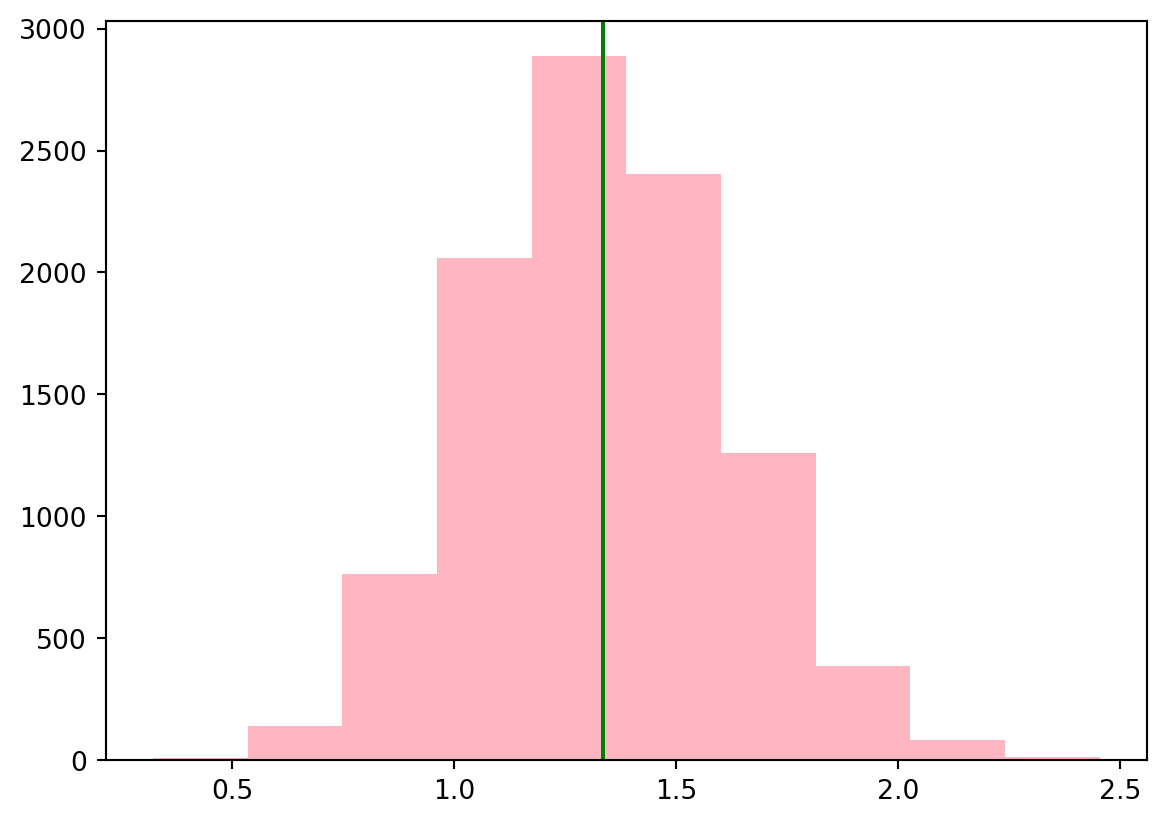
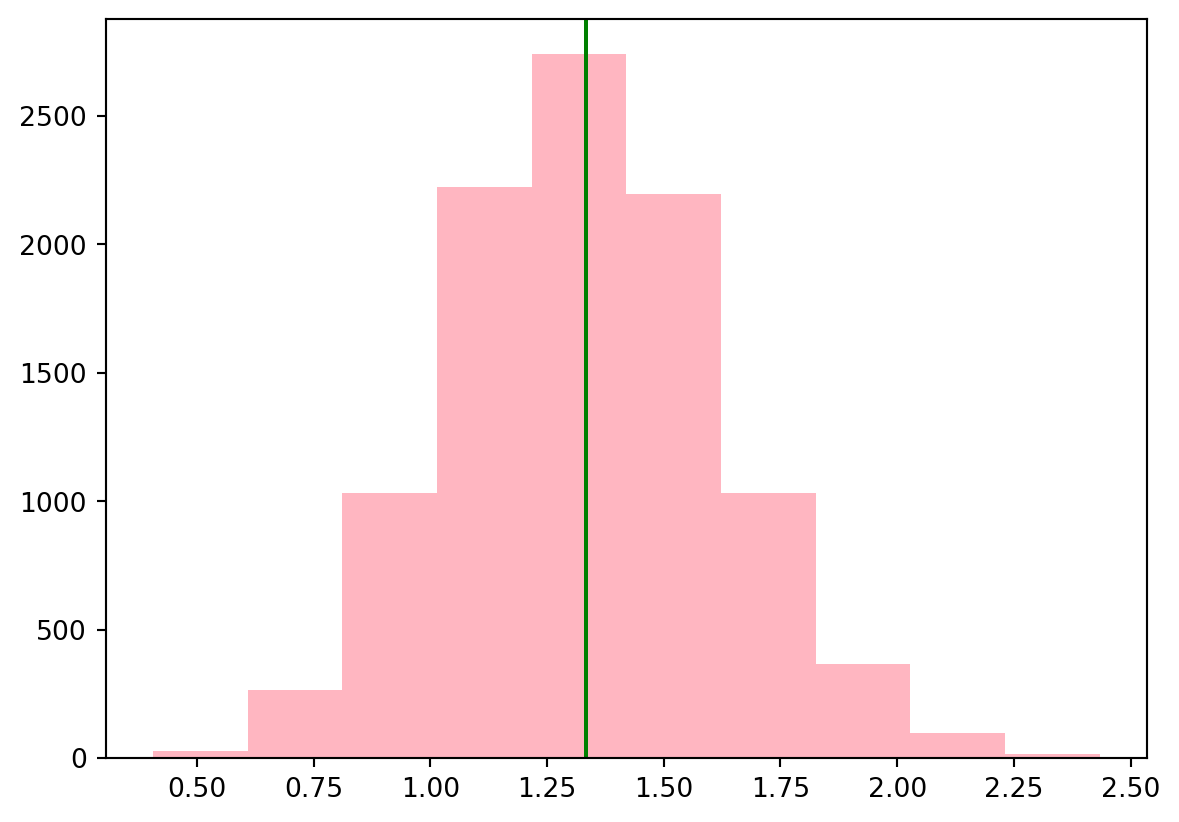
UPDATE - stat - sample variance

diff --git a/docs/posts/hw6/hw6.html b/docs/posts/hw6/hw6.html
@@ -211,7 +211,7 @@ pre > code.sourceCode > span > a:first-child::before { text-decoration: underlin
 <li>결과를 살펴보고, 왜 <strong>n-1</strong>로 나눈 것을 분산을 추정하는 지표로 사용하는 것이 타당한 지 서술하기.</li>
 </ul>
 <p><strong>1. <code>s_2</code> 분포 그래프 그리기</strong></p>
-<div id="2e158a78" class="cell" data-execution_count="1">
+<div id="3995bef3" class="cell" data-execution_count="1">
 <div class="sourceCode cell-code" id="cb1"><pre class="sourceCode python code-with-copy"><code class="sourceCode python"><span id="cb1-1"><a href="#cb1-1" aria-hidden="true" tabindex="-1"></a><span class="im">from</span> scipy.stats <span class="im">import</span> uniform</span>
 <span id="cb1-2"><a href="#cb1-2" aria-hidden="true" tabindex="-1"></a><span class="im">import</span> matplotlib.pyplot <span class="im">as</span> plt</span>
 <span id="cb1-3"><a href="#cb1-3" aria-hidden="true" tabindex="-1"></a>x<span class="op">=</span>uniform.rvs(loc<span class="op">=</span><span class="dv">2</span>, scale<span class="op">=</span><span class="dv">4</span>, size<span class="op">=</span><span class="dv">20</span><span class="op">*</span><span class="dv">10000</span>)</span>
@@ -225,7 +225,7 @@ pre > code.sourceCode > span > a:first-child::before { text-decoration: underlin
 <div class="cell-output cell-output-display">
 <div>
 <figure class="figure">
-<p><img src="hw6_files/figure-html/cell-2-output-1.png" width="583" height="412" class="figure-img"></p>
+<p><img src="hw6_files/figure-html/cell-2-output-1.png" width="590" height="411" class="figure-img"></p>
 </figure>
 </div>
 </div>
@@ -234,7 +234,7 @@ pre > code.sourceCode > span > a:first-child::before { text-decoration: underlin
 </div>
 </div>
 <p><strong>2. <code>k_2</code> 분포 그래프 그리기</strong></p>
-<div id="f1e2d385" class="cell" data-execution_count="2">
+<div id="db4ef202" class="cell" data-execution_count="2">
 <div class="sourceCode cell-code" id="cb3"><pre class="sourceCode python code-with-copy"><code class="sourceCode python"><span id="cb3-1"><a href="#cb3-1" aria-hidden="true" tabindex="-1"></a>k_2 <span class="op">=</span> x.var(axis<span class="op">=</span><span class="dv">1</span>, ddof<span class="op">=</span><span class="dv">0</span>)</span>
 <span id="cb3-2"><a href="#cb3-2" aria-hidden="true" tabindex="-1"></a>plt.hist(k_2, color <span class="op">=</span> <span class="st">"lightpink"</span>)</span>
 <span id="cb3-3"><a href="#cb3-3" aria-hidden="true" tabindex="-1"></a>plt.axvline(x.var(), color<span class="op">=</span><span class="st">"green"</span>)</span>
@@ -243,7 +243,7 @@ pre > code.sourceCode > span > a:first-child::before { text-decoration: underlin
 <div class="cell-output cell-output-display">
 <div>
 <figure class="figure">
-<p><img src="hw6_files/figure-html/cell-3-output-1.png" width="583" height="412" class="figure-img"></p>
+<p><img src="hw6_files/figure-html/cell-3-output-1.png" width="583" height="411" class="figure-img"></p>
 </figure>
 </div>
 </div>
@@ -252,8 +252,8 @@ pre > code.sourceCode > span > a:first-child::before { text-decoration: underlin
 </div>
 </div>
 <ul>
-<li>두 그래프를 봤을 때, <code>s_2</code>의 분포그래프에선 모분산을 나타내는 녹색축을 중심을 두고 분포된 것을 알 수 있다.</li>
-<li>반면, <code>k_2</code>의 분포그래프에선 모분산을 나타내는 녹색축을 중심으로 왼쪽으로 편향된 것이 확인된다.</li>
+<li>두 그래프를 봤을 때, <code>s_2</code>의 분포그래프가 모분산을 나타내는 녹색축을 중심을 두고 분포된 것을 알 수 있다.</li>
+<li>반면, <code>k_2</code>의 분포그래프가 모분산을 나타내는 녹색축을 중심으로 왼쪽으로 편향된 것이 확인된다.</li>
 <li>따라서 n-1로 나눈 <code>s_2</code>가 모분산을 더 잘 추정한다고 할 수 있다.</li>
 </ul>
 

diff --git a/docs/blog.html b/docs/blog.html
@@ -332,7 +332,7 @@ Ahyeong Jeong
 </a>
 </div>
 </div>
-<div class="quarto-post image-right" data-index="4" data-categories="Statistics" data-listing-date-sort="1721833200000" data-listing-file-modified-sort="1722251405290" data-listing-date-modified-sort="NaN" data-listing-reading-time-sort="1" data-listing-word-count-sort="142">
+<div class="quarto-post image-right" data-index="4" data-categories="Statistics" data-listing-date-sort="1721833200000" data-listing-file-modified-sort="1722251770546" data-listing-date-modified-sort="NaN" data-listing-reading-time-sort="1" data-listing-word-count-sort="142">
 <div class="thumbnail">
 <p><a href="./posts/hw6/hw6.html" class="no-external"></a></p><a href="./posts/hw6/hw6.html" class="no-external">
 <p class="card-img-top"><img src="posts\hw6\hw6_files\figure-html\cell-2-output-1.png"  class="thumbnail-image card-img"/></p>
